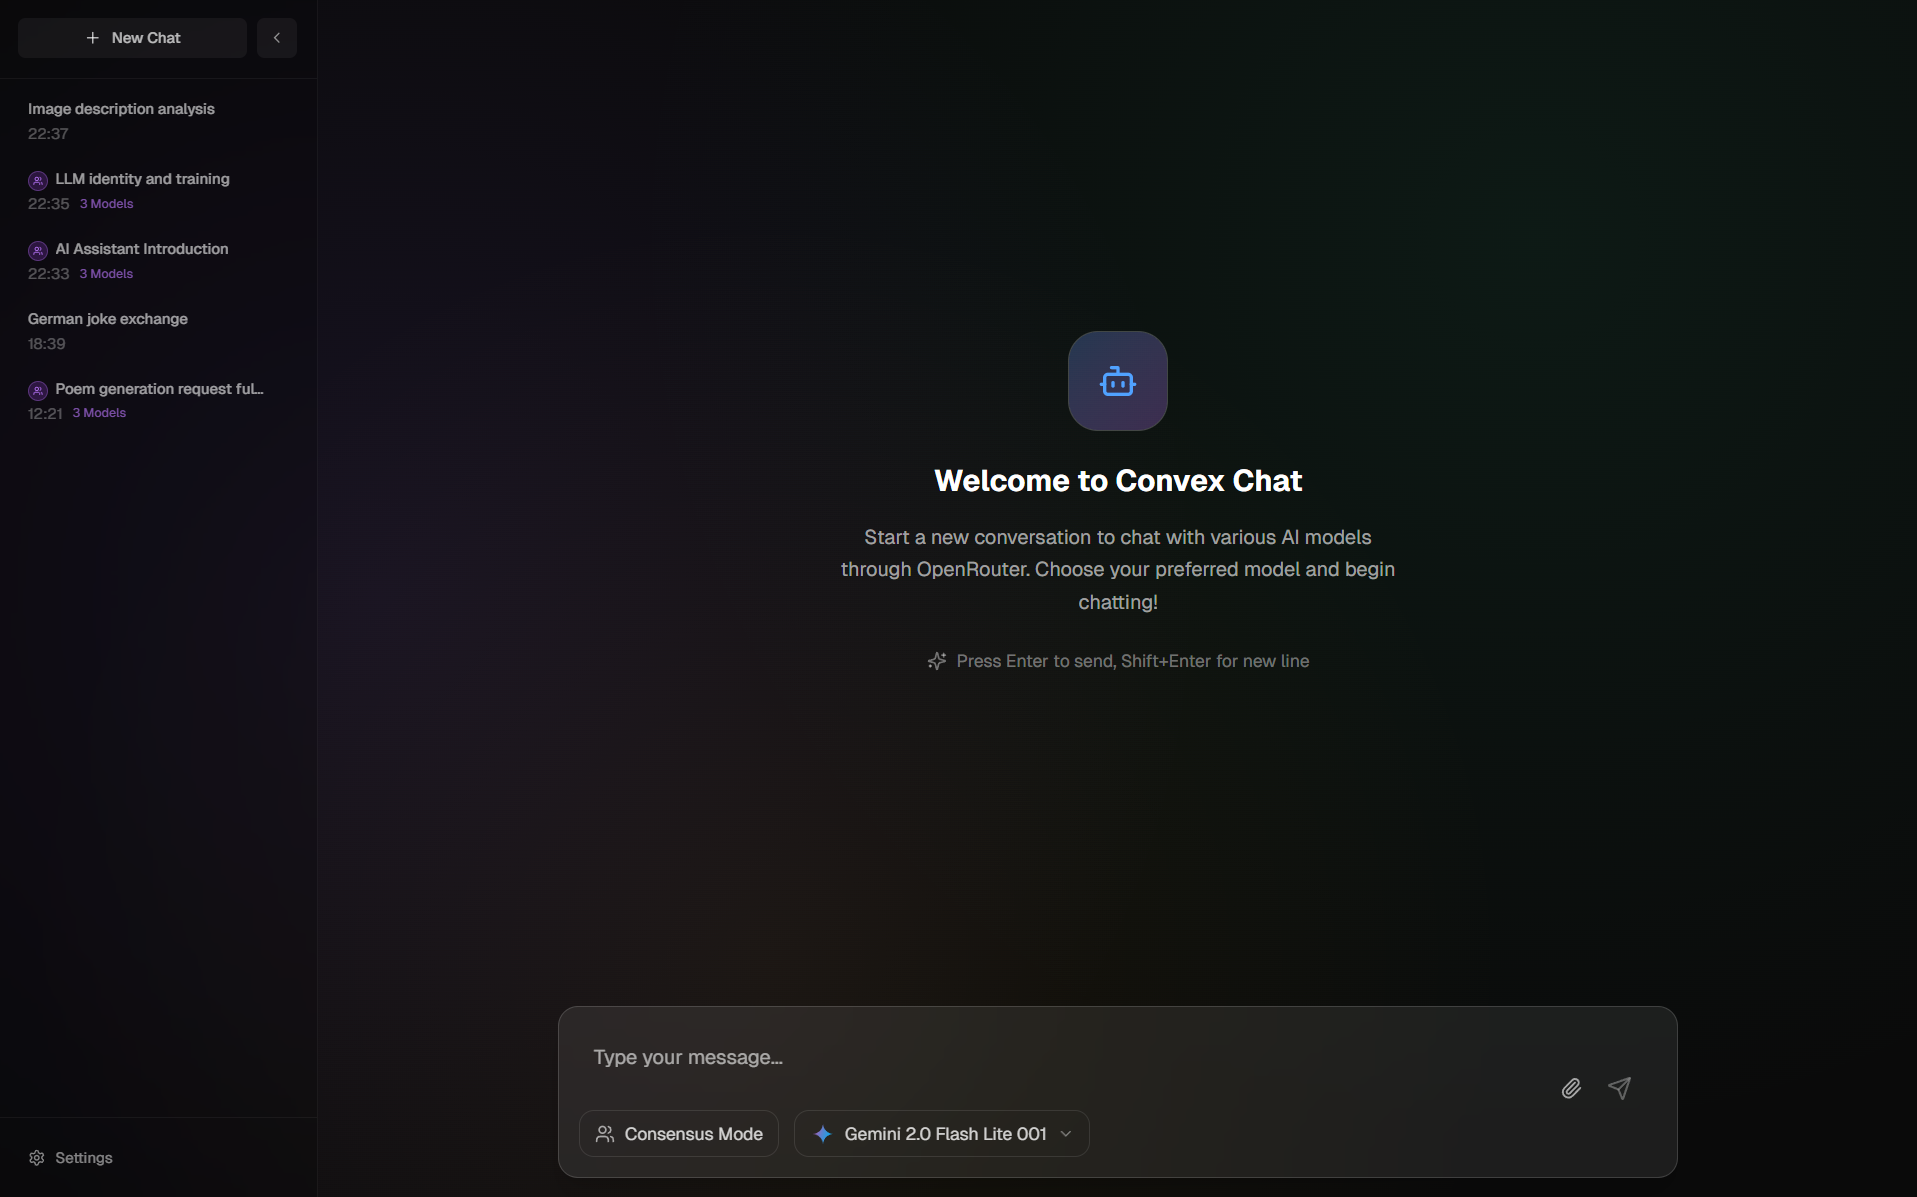
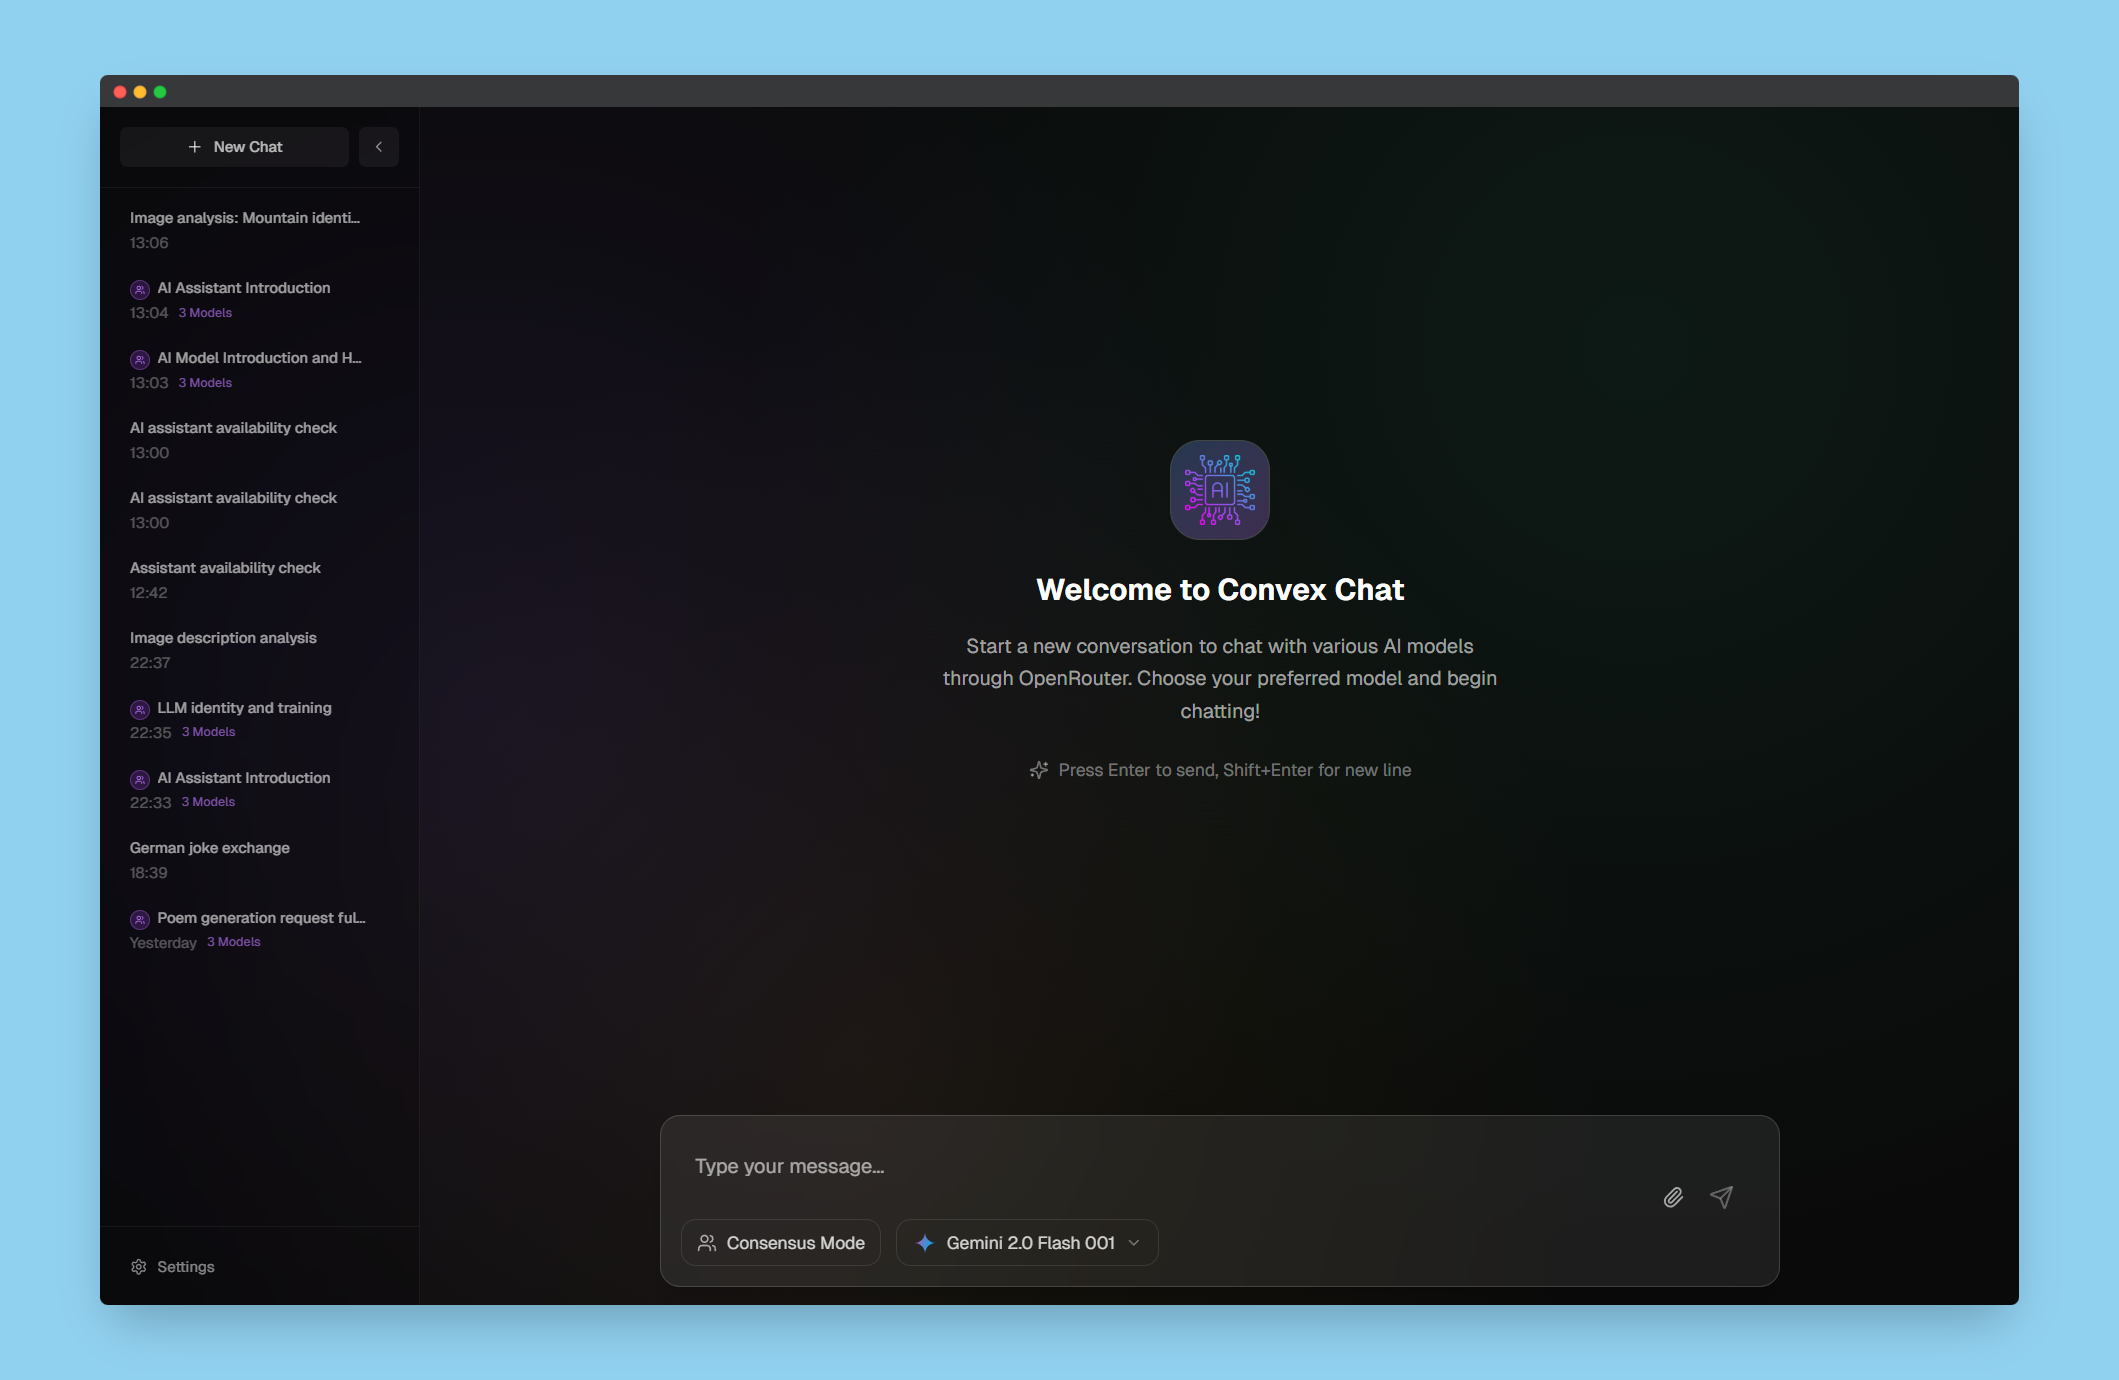
Update readme and screenshots (#26)

Changed region(s): [[0.0, 0.0, 1.0, 1.0], [0.4309, 0.2782, 0.7387, 0.5873]]

diff --git a/README.md b/README.md
@@ -1,99 +1,9 @@
-# T3 Chat Clone - Convex Chat - Cloneathon Submission
+# T3 Chat Clone - [Convex Chat](https://t3-cloneathon.lukeschroeter.de/) - Cloneathon Submission
 
-> **Live Demo:** [https://t3-cloneathon.lukeschroeter.de/](https://t3-cloneathon.lukeschroeter.de/)
+![T3 Chat Clone Showcase](./screenshots/showcase.png)
+*Modern AI chat application with multi-model consensus and advanced features*
 
-A modern, feature-rich AI chat application built for the T3 Chat Cloneathon hosted by Theo Browne. This submission showcases advanced chat capabilities with multi-model consensus, file attachments, and a beautiful, responsive interface.
-
-## 🏆 Competition Entry
-
-This project is my submission for the **T3 Chat Cloneathon** - a competition to build the best T3 Chat clone within one week, competing for a **$10,000+ prize pool**.
-
-**Competition Details:**
-- **Deadline:** June 17, 2025 at 12:00 PM PDT
-- **Prize Pool:** $10,000+ total
-- **Requirements:** Open source AI chat app with multiple LLM support and authentication
-
-## ✨ Features
-
-### Core Requirements ✅
-
-- **🤖 Multiple LLM Support** - Chat with 20+ AI models from leading providers
-- **🔐 Authentication & Sync** - Secure user authentication with chat history synchronization
-- **🌐 Browser Friendly** - Fully responsive web application
-- **🚀 Easy to Try** - Live demo available with guest access
-
-### Bonus Features ✅
-
-- **📎 File Attachments** - Upload and analyze images and PDFs
-- **🎯 Consensus Chat** - Get responses from multiple AI models simultaneously
-- **🎨 Syntax Highlighting** - Beautiful code formatting with highlight.js
-- **💾 Resumable Streams** - Continue conversations after page refresh
-- **🔑 Bring Your Own Key** - Use your own OpenRouter API key
-- **⚡ Real-time Streaming** - Live response streaming with typewriter effect
-
-## 🛠 Tech Stack
-
-- **Framework:** Next.js 15 with App Router
-- **Language:** TypeScript
-- **Styling:** Tailwind CSS 4
-- **Authentication:** Supabase Auth
-- **Database:** Supabase (PostgreSQL)
-- **AI Integration:** OpenRouter API
-- **Animations:** Framer Motion
-- **Icons:** Lucide React
-- **Markdown:** React Markdown with syntax highlighting
-
-## 🤖 Supported AI Models
-
-The application supports **20+ cutting-edge AI models** from major providers:
-
-### Google Models
-- Gemini 2.0 Flash (001 & Lite)
-- Gemini 2.5 Flash Preview
-- Gemini 2.5 Pro Preview
-
-### OpenAI Models
-- GPT-4o Mini & GPT-4o (2024-11-20)
-- GPT-4.1 (Full, Mini, Nano)
-- o3-mini
-- o4-mini
-
-### Anthropic Models
-- Claude Opus 4
-- Claude Sonnet 4
-- Claude 3.7 Sonnet
-- Claude 3.5 Sonnet
-
-### Meta Models
-- Llama 3.3 70B Instruct
-- Llama 4 Scout & Maverick
-
-### Other Providers
-- DeepSeek Chat V3 & R1 (Free)
-- X.AI Grok 3 Beta & Mini
-
-
-## 🧪 Testing Instructions
-
-### Quick Start Testing
-
-1. **Visit the Live Demo:** Navigate to [https://t3-cloneathon.lukeschroeter.de/](https://t3-cloneathon.lukeschroeter.de/)
-
-2. **Create an Account:** Register with your email address, github or google profile through the secure Supabase authentication system
-
-3. **Add Your API Key:** When prompted, enter your OpenRouter API key in the settings. This enables access to all 20+ AI models
-   - Don't have an OpenRouter key? Get one free at [openrouter.ai](https://openrouter.ai)
-   - Your key is encrypted and stored securely
-
-4. **Start Chatting:** You're ready to explore all features immediately!
-
-### Local Development Note
-
-**⚠ Local testing is currently not supported and not recommended.** The application relies on Supabase database functions with specialized configurations that are complex to replicate locally. The live demo provides the full, intended experience with all features working seamlessly.
-
-For the best testing experience and to evaluate all competition features, please use the deployed version above.
-
-## 📸 Screenshots
+## 🌟 Application Showcase
 
 ### Main Chat Interface
 ![Main Chat Interface](./screenshots/main-chat-01.png)
@@ -125,6 +35,46 @@ For the best testing experience and to evaluate all competition features, please
 ### Authentication
 ![Login Interface](./screenshots/login.png)
 *Secure authentication with Supabase*
+
+> **Live Demo:** [https://t3-cloneathon.lukeschroeter.de/](https://t3-cloneathon.lukeschroeter.de/)
+
+A modern, feature-rich AI chat application built for the T3 Chat Cloneathon hosted by Theo Browne. This submission showcases advanced chat capabilities with multi-model consensus, file attachments, and a beautiful, responsive interface.
+
+## 🏆 Competition Entry
+
+This project is my submission for the **T3 Chat Cloneathon** - a competition to build the best T3 Chat clone within one week, competing for a **$10,000+ prize pool**.
+
+## 🛠 Tech Stack
+
+- **Framework:** Next.js 15 with App Router
+- **Language:** TypeScript
+- **Styling:** Tailwind CSS 4
+- **Authentication:** Supabase Auth
+- **Database:** Supabase (PostgreSQL)
+- **AI Integration:** OpenRouter API
+- **Animations:** Framer Motion
+- **Icons:** Lucide React
+- **Markdown:** React Markdown with syntax highlighting
+
+## 🧪 Testing Instructions
+
+### Quick Start Testing
+
+1. **Visit the Live Demo:** Navigate to [https://t3-cloneathon.lukeschroeter.de/](https://t3-cloneathon.lukeschroeter.de/)
+
+2. **Create an Account:** Register with your email address, github or google profile through the secure Supabase authentication system
+
+3. **Add Your API Key:** When prompted, enter your OpenRouter API key in the settings. This enables access to all 20+ AI models
+   - Don't have an OpenRouter key? Get one free at [openrouter.ai](https://openrouter.ai)
+   - Your key is encrypted and stored securely
+
+4. **Start Chatting:** You're ready to explore all features immediately!
+
+### Local Development Note
+
+**⚠ Local testing is currently not supported and not recommended.** The application relies on Supabase database functions with specialized configurations that are complex to replicate locally. The live demo provides the full, intended experience with all features working seamlessly.
+
+For the best testing experience and to evaluate all competition features, please use the deployed version above.
 
 ## 🎯 Key Features Deep Dive
 
@@ -209,6 +159,36 @@ This T3 Chat clone goes beyond the basic requirements by offering:
 4. **Performance Optimized:** Fast, responsive, and efficient
 5. **Extensible Architecture:** Built for future enhancements
 6. **Production Ready:** Deployed and accessible with proper error handling
+
+## 🤖 Supported AI Models
+
+The application supports **20+ cutting-edge AI models** from major providers:
+
+### Google Models
+- Gemini 2.0 Flash (001 & Lite)
+- Gemini 2.5 Flash Preview
+- Gemini 2.5 Pro Preview
+
+### OpenAI Models
+- GPT-4o Mini & GPT-4o (2024-11-20)
+- GPT-4.1 (Full, Mini, Nano)
+- o3-mini
+- o4-mini
+
+### Anthropic Models
+- Claude Opus 4
+- Claude Sonnet 4
+- Claude 3.7 Sonnet
+- Claude 3.5 Sonnet
+
+### Meta Models
+- Llama 3.3 70B Instruct
+- Llama 4 Scout & Maverick
+
+### Other Providers
+- DeepSeek Chat V3 & R1 (Free)
+- X.AI Grok 3 Beta & Mini
+
 
 ## 📝 License
 
